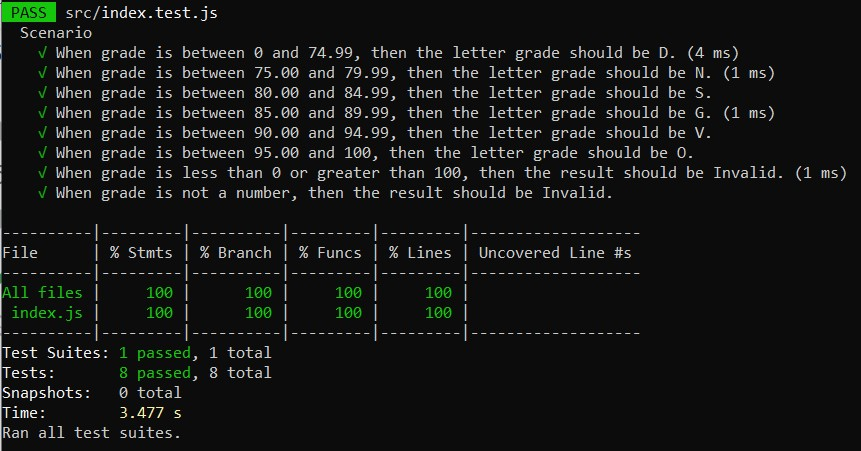
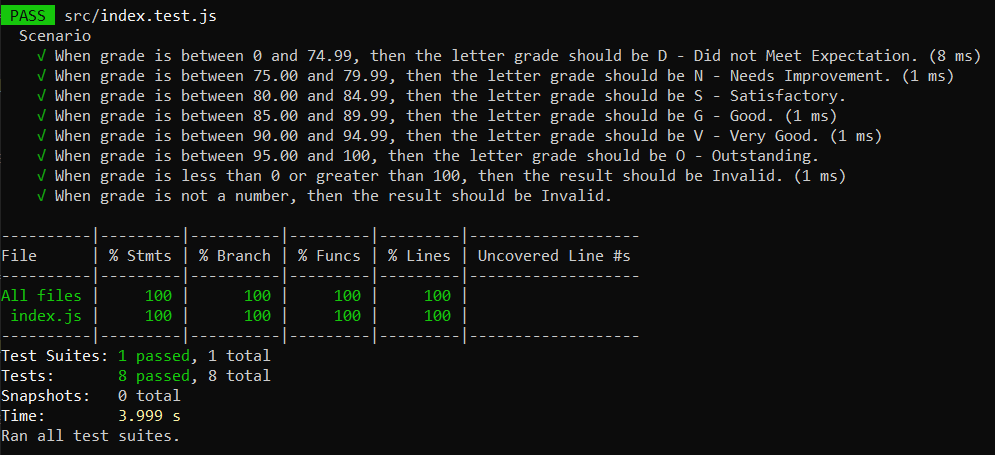
Changed outputs

Changed region(s): [[0.0, 0.0, 0.9965, 0.4656], [0.0, 0.4967, 0.7247, 0.9933]]

diff --git a/src/index.test.js b/src/index.test.js
@@ -2,7 +2,7 @@ const { gradeClassifier } = require('./index');
 
 // TODO: Write unit tests here
 describe('Scenario', () => {
-  it('When grade is between 0 and 74.99, then the letter grade should be D.', () => {
+  it('When grade is between 0 and 74.99, then the letter grade should be D - Did not Meet Expectation.', () => {
     // Arrange
     var grade = 74.99
 
@@ -10,10 +10,10 @@ describe('Scenario', () => {
     var result = gradeClassifier(grade)
 
     // Assert
-    expect(result).toBe('D')
+    expect(result).toBe("D - Did not Meet Expectation")
   });
 
-  it('When grade is between 75.00 and 79.99, then the letter grade should be N.', () => {
+  it('When grade is between 75.00 and 79.99, then the letter grade should be N - Needs Improvement.', () => {
     // Arrange
     var grade = 79.99
 
@@ -21,10 +21,10 @@ describe('Scenario', () => {
     var result = gradeClassifier(grade)
 
     // Assert
-    expect(result).toBe('N')
+    expect(result).toBe("N - Needs Improvement")
   });
 
-  it('When grade is between 80.00 and 84.99, then the letter grade should be S.', () => {
+  it('When grade is between 80.00 and 84.99, then the letter grade should be S - Satisfactory.', () => {
     // Arrange
     var grade = 84.99
 
@@ -32,10 +32,10 @@ describe('Scenario', () => {
     var result = gradeClassifier(grade)
 
     // Assert
-    expect(result).toBe('S')
+    expect(result).toBe("S - Satisfactory")
   });
 
-  it('When grade is between 85.00 and 89.99, then the letter grade should be G.', () => {
+  it('When grade is between 85.00 and 89.99, then the letter grade should be G - Good.', () => {
     // Arrange
     var grade = 89.99
 
@@ -43,10 +43,10 @@ describe('Scenario', () => {
     var result = gradeClassifier(grade)
 
     // Assert
-    expect(result).toBe('G')
+    expect(result).toBe("G - Good")
   });
 
-  it('When grade is between 90.00 and 94.99, then the letter grade should be V.', () => {
+  it('When grade is between 90.00 and 94.99, then the letter grade should be V - Very Good.', () => {
     // Arrange
     var grade = 94.99
 
@@ -54,10 +54,10 @@ describe('Scenario', () => {
     var result = gradeClassifier(grade)
 
     // Assert
-    expect(result).toBe('V')
+    expect(result).toBe("V - Very Good")
   });
 
-  it('When grade is between 95.00 and 100, then the letter grade should be O.', () => {
+  it('When grade is between 95.00 and 100, then the letter grade should be O - Outstanding.', () => {
     // Arrange
     var grade = 100
 
@@ -65,7 +65,7 @@ describe('Scenario', () => {
     var result = gradeClassifier(grade)
 
     // Assert
-    expect(result).toBe('O')
+    expect(result).toBe("O - Outstanding")
   });
 
   it('When grade is less than 0 or greater than 100, then the result should be Invalid.', () => {

diff --git a/src/index.js b/src/index.js
@@ -1,17 +1,17 @@
 const functions = {
   gradeClassifier: (grade) => {
     if(grade >= 0 && grade <= 74.99)
-      return 'D'
+      return "D - Did not Meet Expectation"
     else if(grade >= 75.00 && grade <= 79.99)
-      return 'N'
+      return "N - Needs Improvement"
     else if(grade >= 80.00 && grade <= 84.99)
-      return 'S'
+      return "S - Satisfactory"
     else if(grade >= 85.00 && grade <= 89.99)
-      return 'G'
+      return "G - Good"
     else if(grade >= 90.00 && grade <= 94.99)
-      return 'V'
+      return "V - Very Good"
     else if(grade >= 95.00 && grade <= 100.00)
-      return 'O'
+      return "O - Outstanding"
     else
       return "Invalid"
   }

diff --git a/src/README.md b/src/README.md
@@ -31,4 +31,4 @@ D | Did not Meet Expectation | 74.99 and below
 ## Results
 *TODO: Insert screenshot of the results from the command line*
 
-![Result](https://github.com/Jade03022/prosdev-hw-unittest/blob/master/Results.png?raw=true)
+![ScreenShot](https://github.com/Jade03022/prosdev-hw-unittest/blob/master/Results.png?raw=true)
